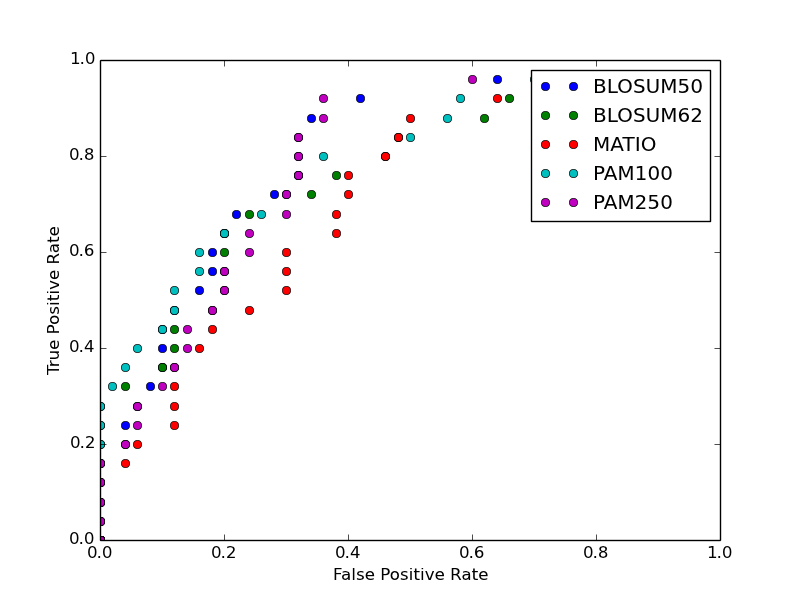
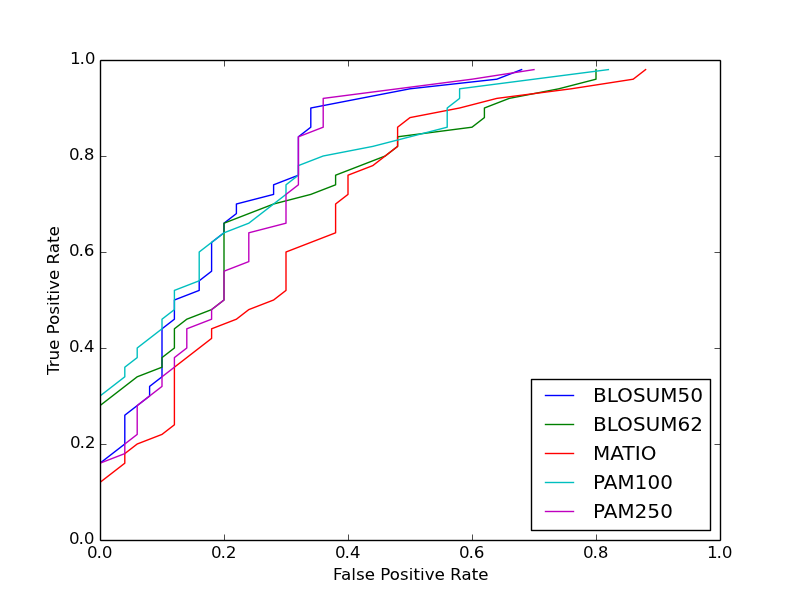
connected lines in ROC curves for different matrices

Changed region(s): [[0.125, 0.15, 0.5938, 0.81], [0.5, 0.09, 0.9062, 0.39], [0.6562, 0.63, 0.9062, 0.9]]

diff --git a/SmithWaterman/ROC_curves.py b/SmithWaterman/ROC_curves.py
@@ -25,9 +25,9 @@ def false_pos_rate(pos_score_list, neg_score_list, TPrate):
     false_pos_rate = len(above_threshold)/float(len(neg_score_list))
     return false_pos_rate
 def ROC_graph(pos_scores, neg_scores, home, matrixname):
-    ROC_array = np.zeros([100,2])
+    ROC_array = np.zeros([50,2])
     i = 0
-    for TPrate in range(0, 100, 4):
+    for TPrate in range(0, 100, 2):
         FPrate = false_pos_rate(pos_scores,neg_scores, TPrate)
         ROC_array[i]=[TPrate, FPrate]
         i= i+1  
@@ -56,15 +56,20 @@ def main():
     gap_init = 11
     gap_ext = 2
     sub_Matrix = subMdict.mk_dict(home+subMatrixFile)
+    
+    
+    # for testing different scoring matrices
+  
     for i in range(0,len(subMatrixFile_list)):
         sub_Matrix = subMdict.mk_dict(home+subMatrixFile_list[i]) 
         pos_scores = slSW.scores_from_seq_list(home, pos_seq_list_file, sub_Matrix, gap_init, gap_ext)
         neg_scores= slSW.scores_from_seq_list(home, neg_seq_list_file, sub_Matrix, gap_init, gap_ext)
         ROC_array = ROC_graph(pos_scores, neg_scores, home, subMatrixFile_list[i])
-        pylab.plot(ROC_array[:,1], ROC_array[:,0]/100, 'o', label = subMatrixFile_list[i])
+        pylab.plot(ROC_array[:,1], ROC_array[:,0]/100, label = subMatrixFile_list[i])
+  
         
     pylab.axis([0,1,0,1])
-    pylab.legend()
+    pylab.legend(loc = 'lower right')
     pylab.ylabel('True Positive Rate')
     pylab.xlabel('False Positive Rate')
     pylab.savefig('ROC.png')
